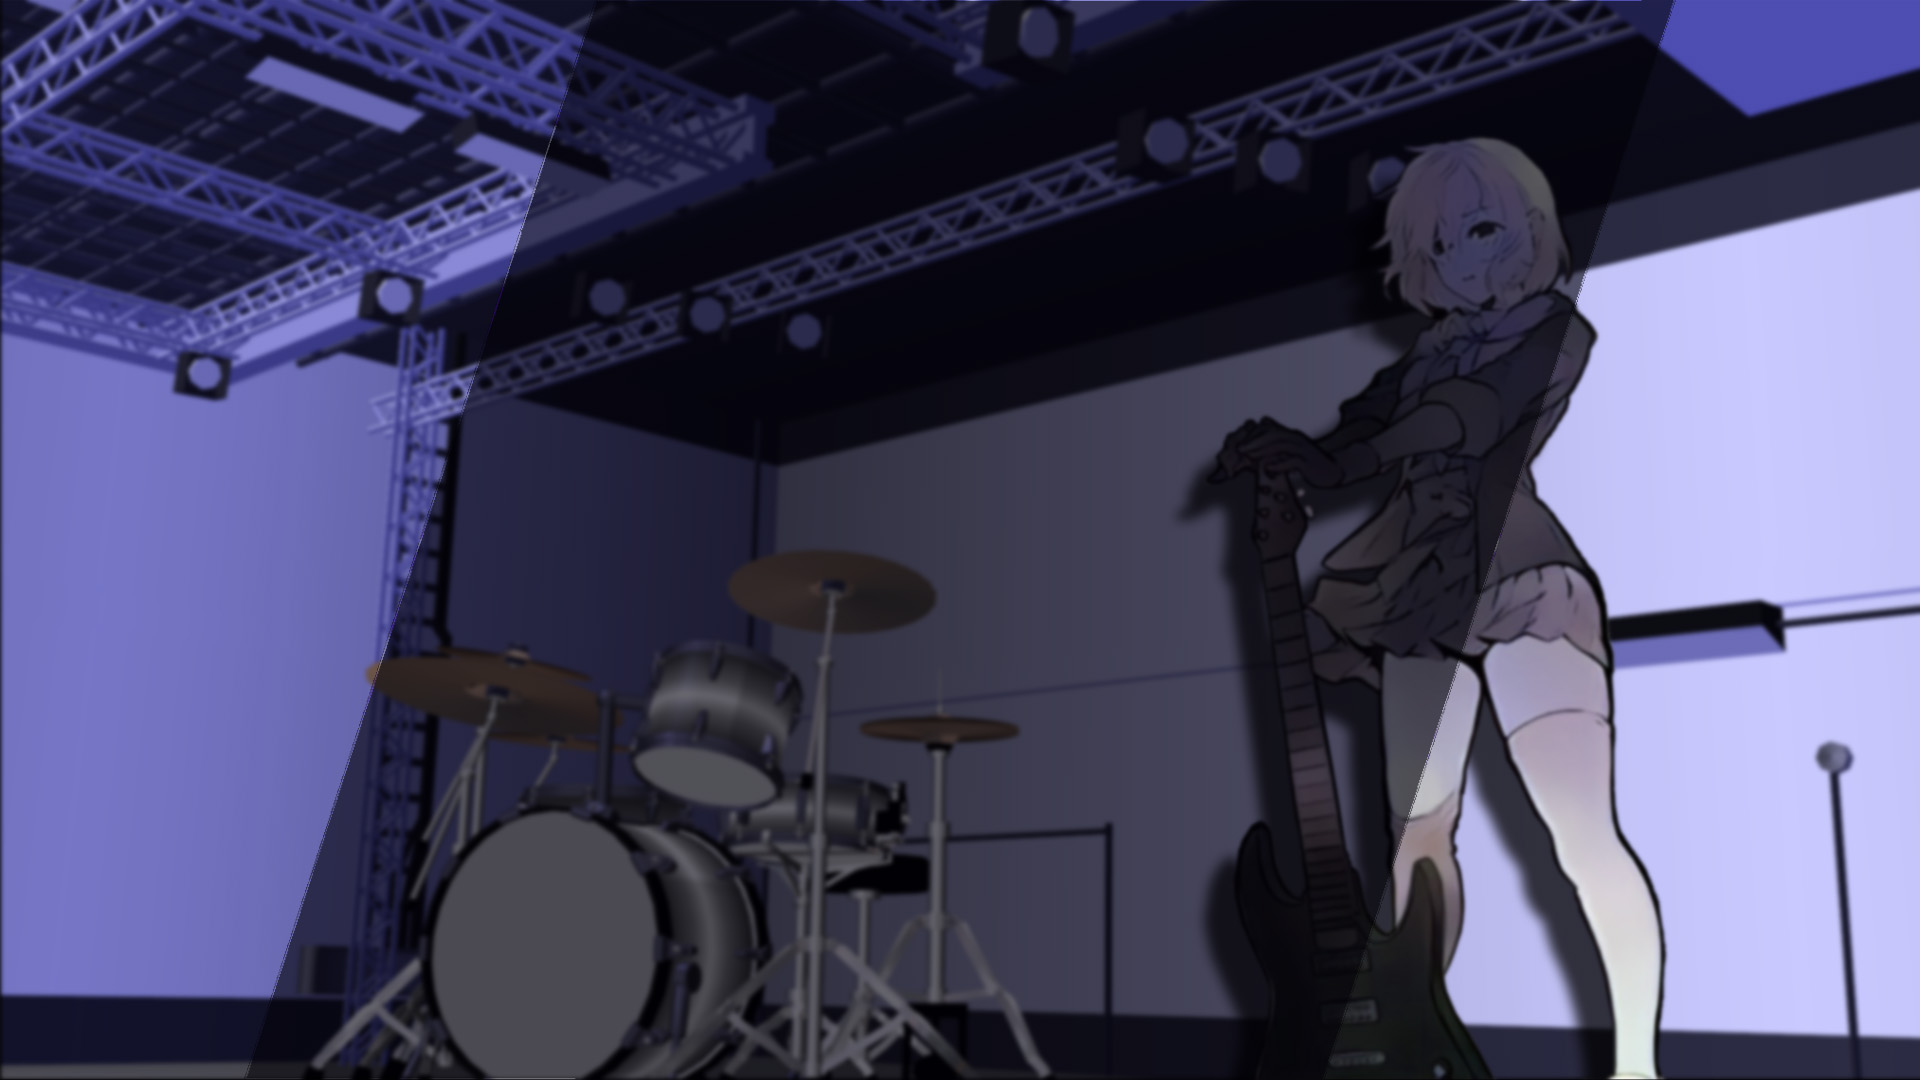
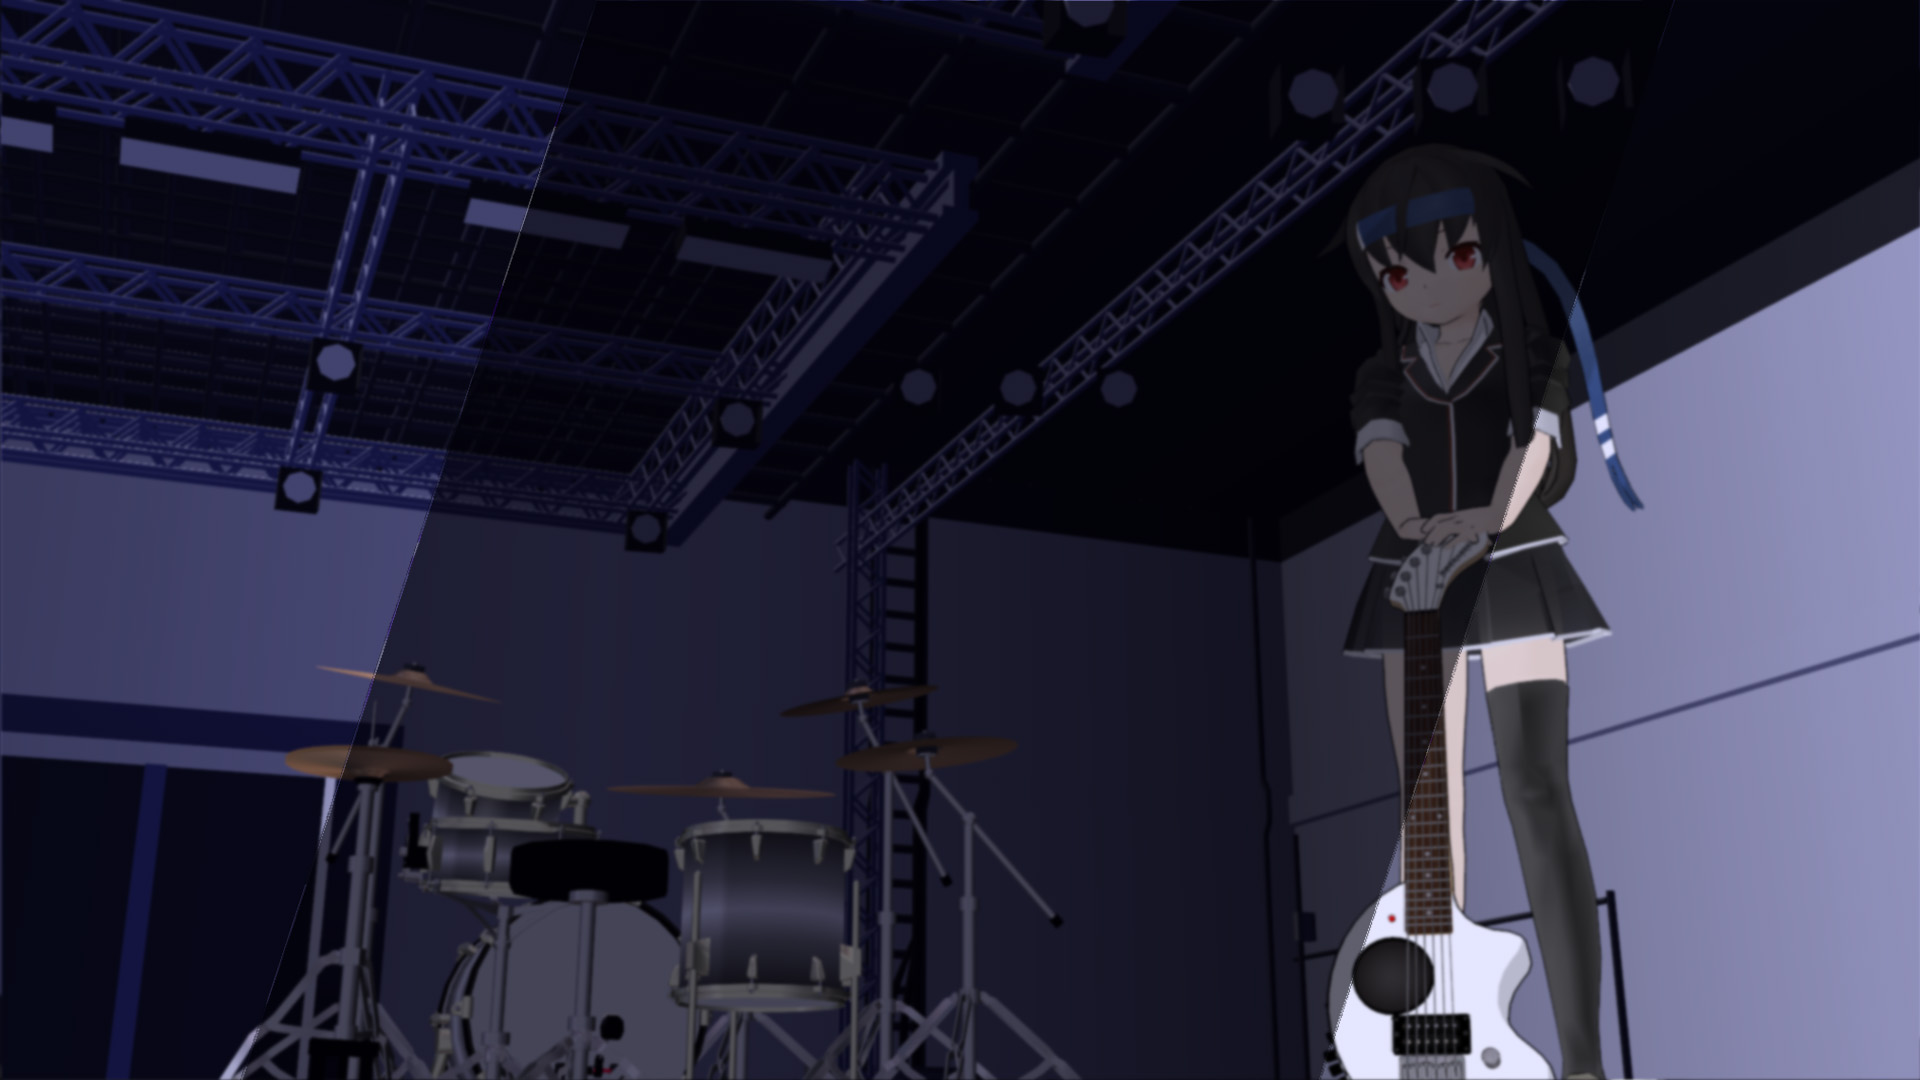
舞台画像を初霜に変更。

diff --git a/DTXmatixx/ステージ/演奏/成績.cs b/DTXmatixx/ステージ/演奏/成績.cs
@@ -132,7 +132,7 @@ namespace DTXmatixx.ステージ.演奏
 			}
 
 			// (5) SKILL値を更新する。
-			this.Skill = (float) ( Math.Floor( 100.0 * ( ( this.達成率 / 100.0 ) * this._譜面レベル * 20.0 ) ) / 100.0 );		// 小数第3位以下切り捨て
+			this.Skill = (float) ( Math.Floor( 100.0 * ( ( this.達成率 * this._譜面レベル * 20.0 ) / 100.0 ) ) / 100.0 );		// 小数第3位以下切り捨て
 		}
 
 
